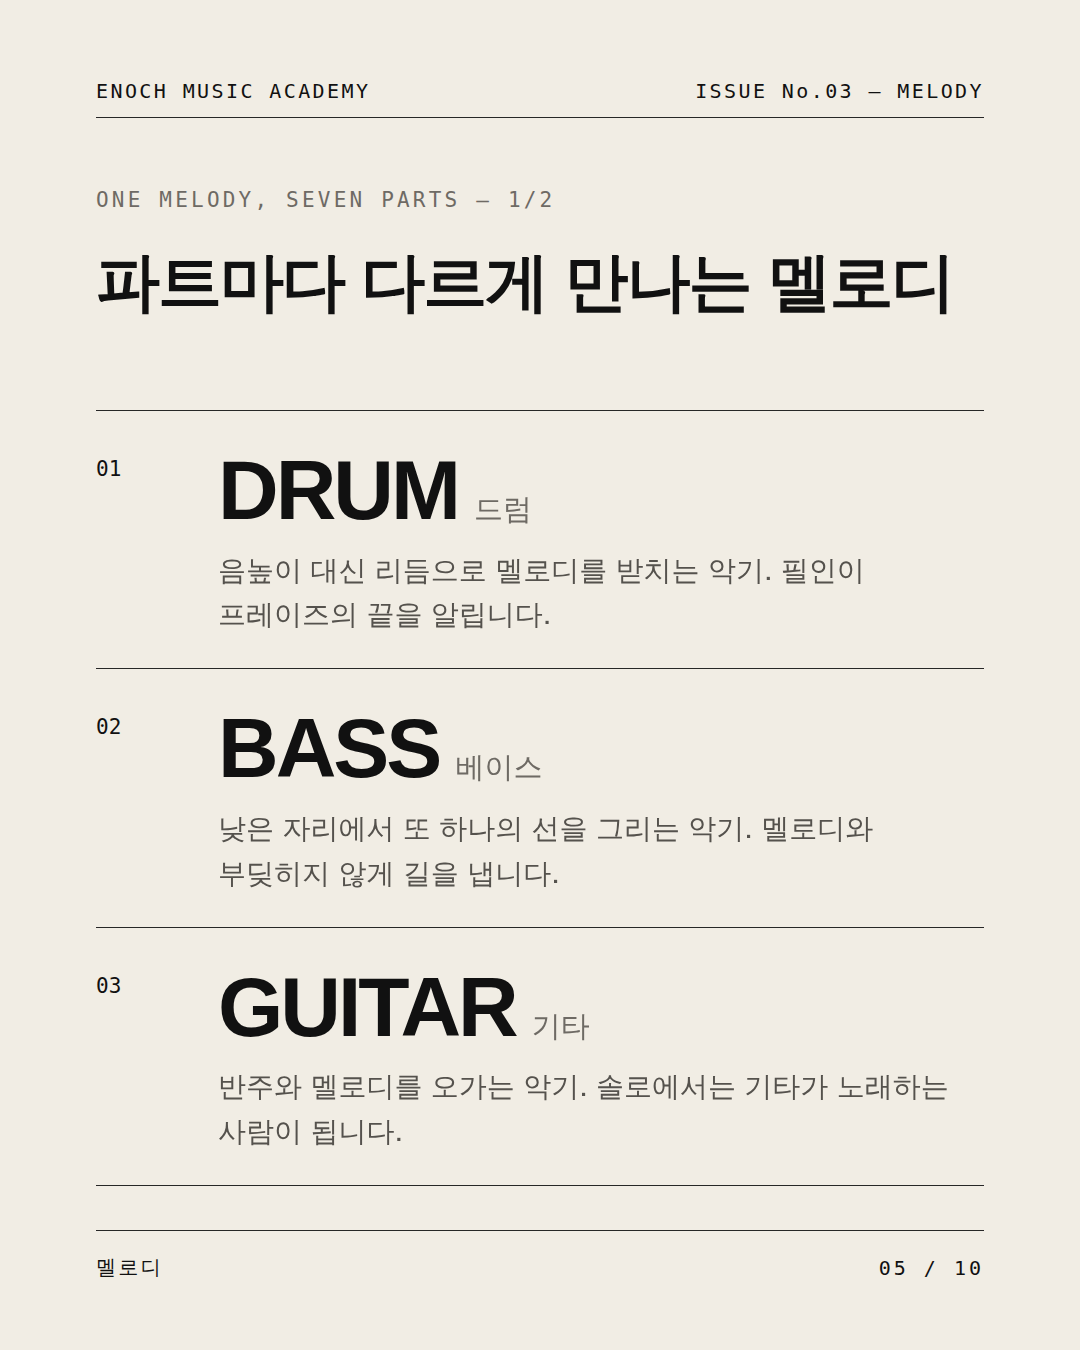
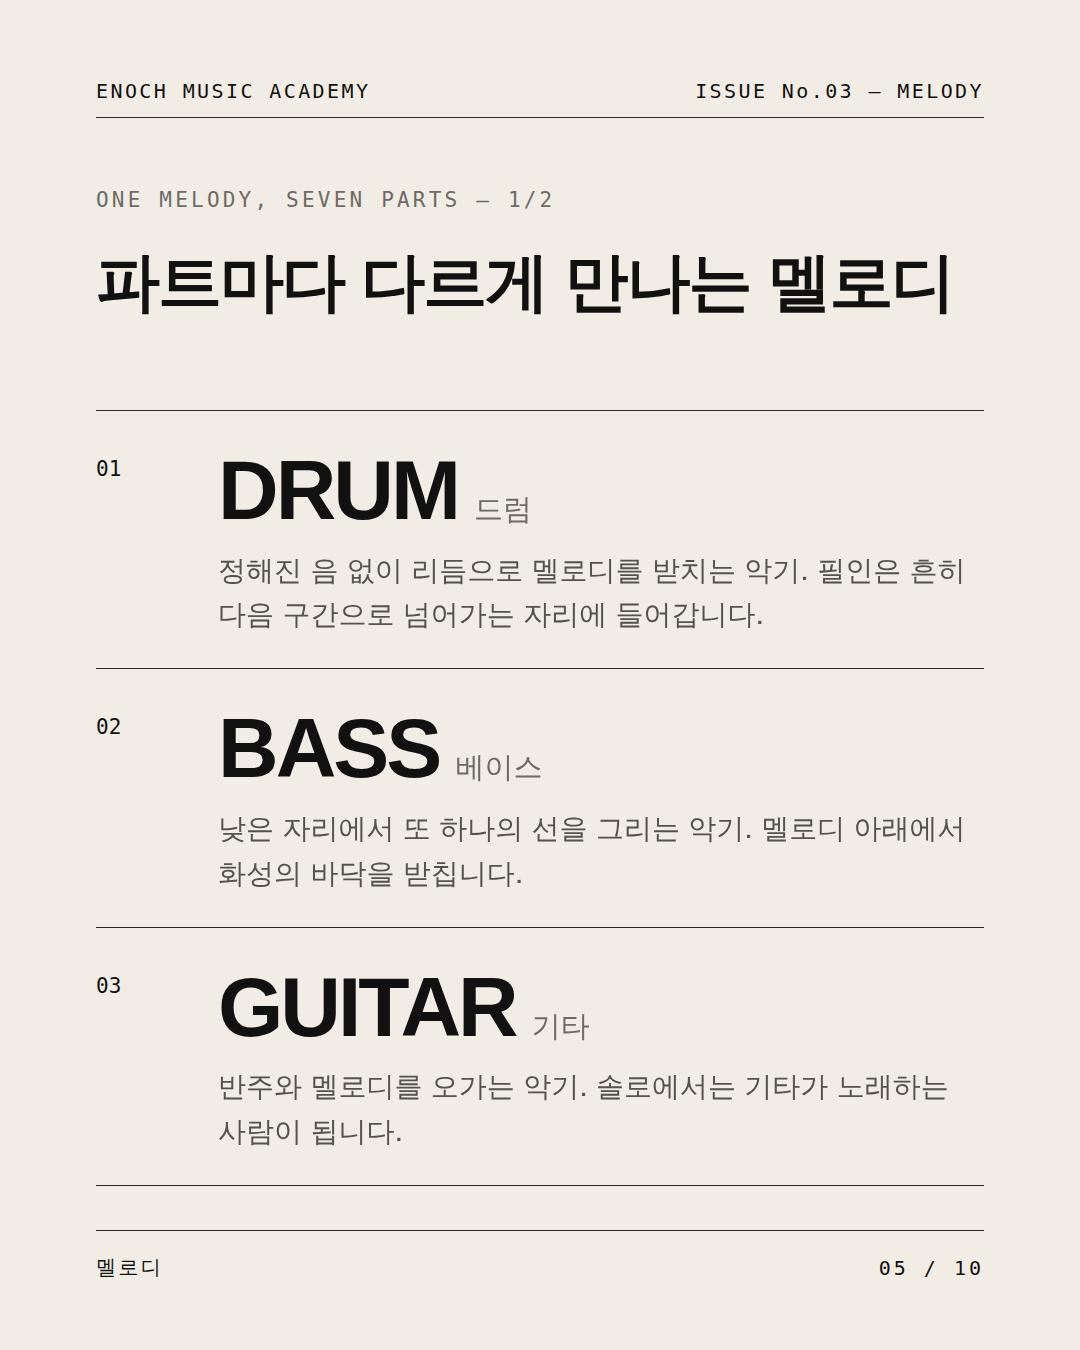
멜로디 5·6장 드럼·베이스·피아노 문구를 상식 선으로 수정
Claude-Session: https://claude.ai/code/session_01HGbZvgMeYrbU7mY8bwfjyb

Changed region(s): [[0.1833, 0.4044, 0.8861, 0.4667], [0.2139, 0.6222, 0.4889, 0.6533], [0.7944, 0.5911, 0.8861, 0.6222]]

diff --git a/output/ENOCH_ISSUE_03_멜로디/preview.html b/output/ENOCH_ISSUE_03_멜로디/preview.html
@@ -296,8 +296,8 @@ body { font-family: var(--ko); word-break: keep-all; -webkit-font-smoothing: ant
     <div class="masthead"><span>ENOCH MUSIC ACADEMY</span><span>ISSUE No.03 — MELODY</span></div>
     <div class="kicker">One Melody, Seven Parts — 1/2</div><h2 class="title">파트마다 다르게 만나는 멜로디</h2>
     <div class="rows"><div class="r"><div class="no">01</div><div>
-        <div class="part-en">Drum<span>드럼</span></div><div class="part-t">음높이 대신 리듬으로 멜로디를 받치는 악기. 필인이 프레이즈의 끝을 알립니다.</div></div></div><div class="r"><div class="no">02</div><div>
-        <div class="part-en">Bass<span>베이스</span></div><div class="part-t">낮은 자리에서 또 하나의 선을 그리는 악기. 멜로디와 부딪히지 않게 길을 냅니다.</div></div></div><div class="r"><div class="no">03</div><div>
+        <div class="part-en">Drum<span>드럼</span></div><div class="part-t">정해진 음 없이 리듬으로 멜로디를 받치는 악기. 필인은 흔히 다음 구간으로 넘어가는 자리에 들어갑니다.</div></div></div><div class="r"><div class="no">02</div><div>
+        <div class="part-en">Bass<span>베이스</span></div><div class="part-t">낮은 자리에서 또 하나의 선을 그리는 악기. 멜로디 아래에서 화성의 바닥을 받칩니다.</div></div></div><div class="r"><div class="no">03</div><div>
         <div class="part-en">Guitar<span>기타</span></div><div class="part-t">반주와 멜로디를 오가는 악기. 솔로에서는 기타가 노래하는 사람이 됩니다.</div></div></div></div>
     
     
@@ -307,7 +307,7 @@ body { font-family: var(--ko); word-break: keep-all; -webkit-font-smoothing: ant
     <div class="masthead"><span>ENOCH MUSIC ACADEMY</span><span>ISSUE No.03 — MELODY</span></div>
     <div class="kicker">One Melody, Seven Parts — 2/2</div><h2 class="title">파트마다 다르게 만나는 멜로디</h2>
     <div class="rows"><div class="r"><div class="no">04</div><div>
-        <div class="part-en">Piano<span>피아노</span></div><div class="part-t">멜로디와 반주를 한 사람이 함께 맡는 악기. 오른손의 선이 묻히지 않게 소리의 크기를 나눕니다.</div></div></div><div class="r"><div class="no">05</div><div>
+        <div class="part-en">Piano<span>피아노</span></div><div class="part-t">멜로디와 반주를 한 사람이 함께 맡을 수 있는 악기. 멜로디가 묻히지 않게 두 손의 소리 크기를 나눕니다.</div></div></div><div class="r"><div class="no">05</div><div>
         <div class="part-en">Vocal<span>보컬</span></div><div class="part-t">멜로디에 가사를 얹는 일. 어디서 숨을 쉴지는 멜로디와 가사를 함께 보고 정합니다.</div></div></div><div class="r"><div class="no">06</div><div>
         <div class="part-en">MIDI<span>미디</span></div><div class="part-t">멜로디를 화면 위에 그리는 작업. 음의 길이와 세기를 하나하나 정합니다.</div></div></div><div class="r"><div class="no">07</div><div>
         <div class="part-en">Composition<span>작곡</span></div><div class="part-t">멜로디를 처음 만드는 일. 어디서 멈출지 정하는 것도 작곡입니다.</div></div></div></div>
